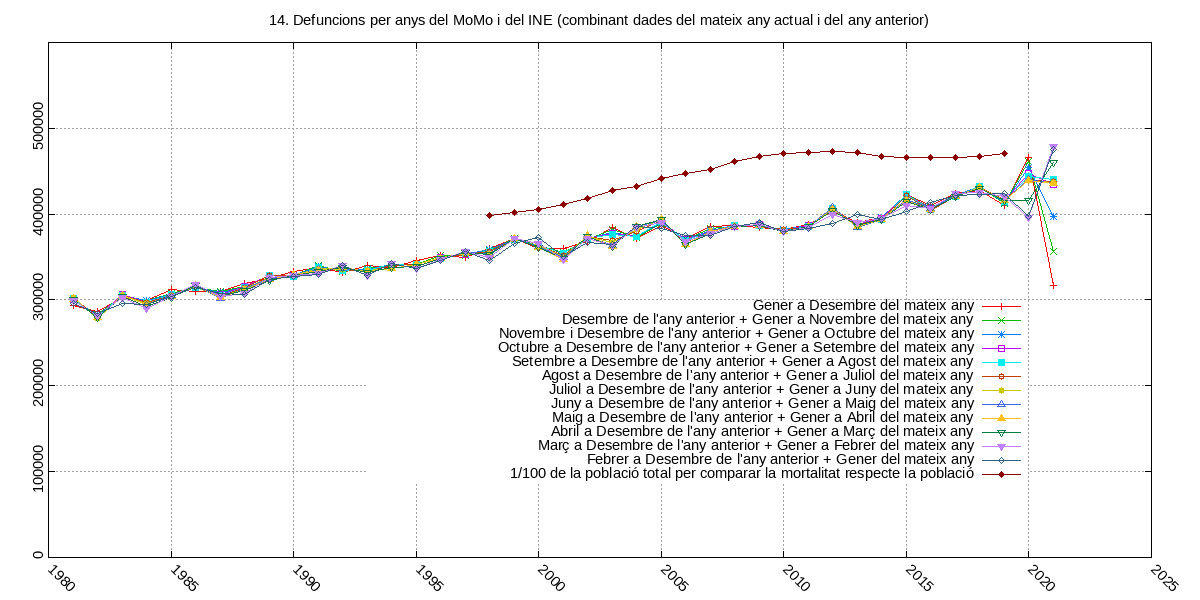
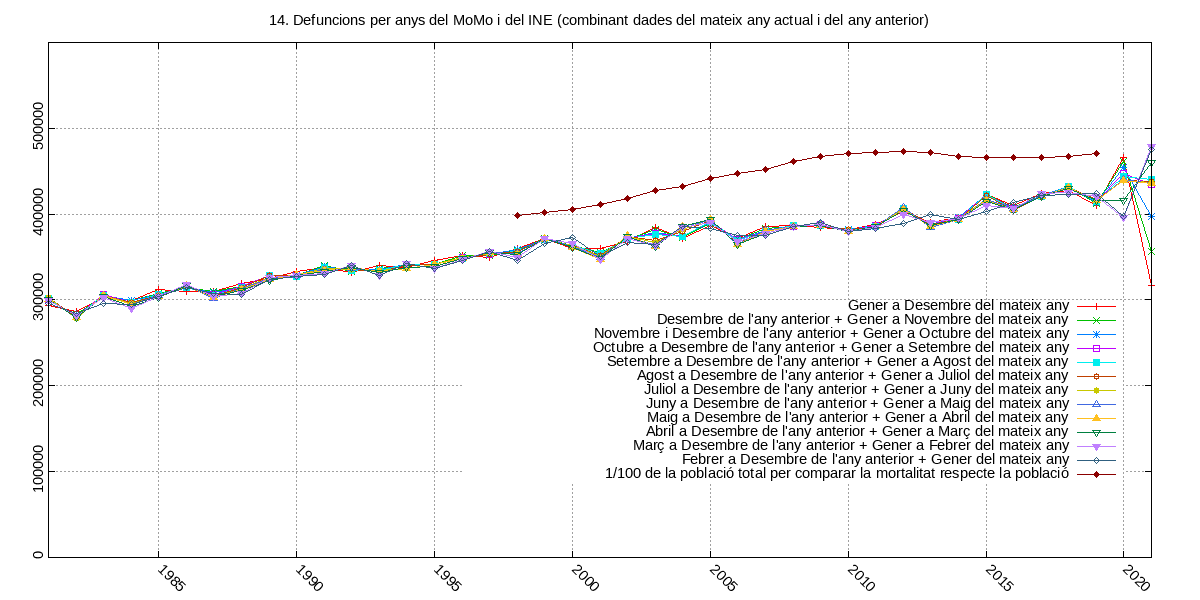
Arreglar el rang del plot14

diff --git a/php/plot14.php b/php/plot14.php
@@ -109,6 +109,7 @@ if (!file_exists("output/plot14${lang}.png")) {
         "set style fill solid border -1",
         "set xtic rotate by -45",
         "set style histogram gap 3",
+        "set xrange [1981:2021]",
         "set yrange [0:600000]",
         "set ytic center rotate by 90",
         "set ytics 0,100000,500000",
